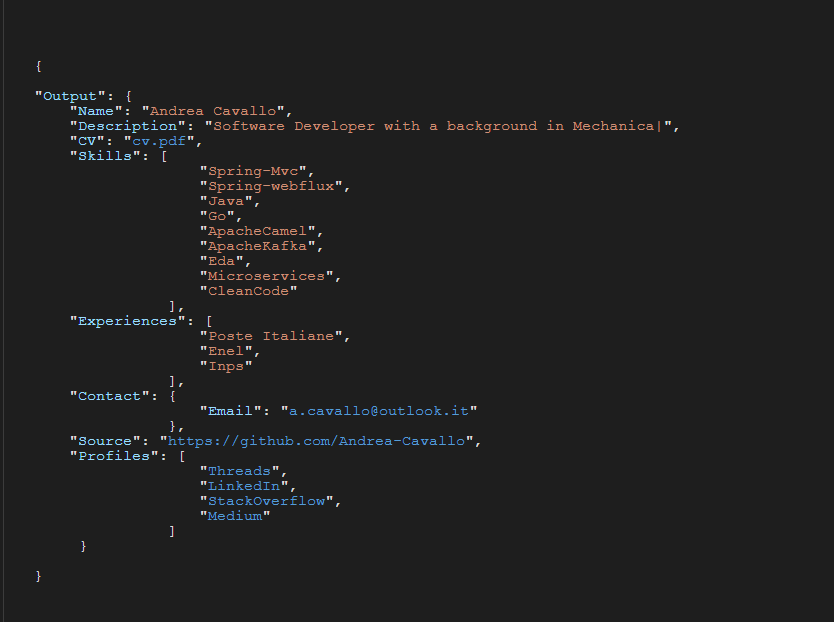
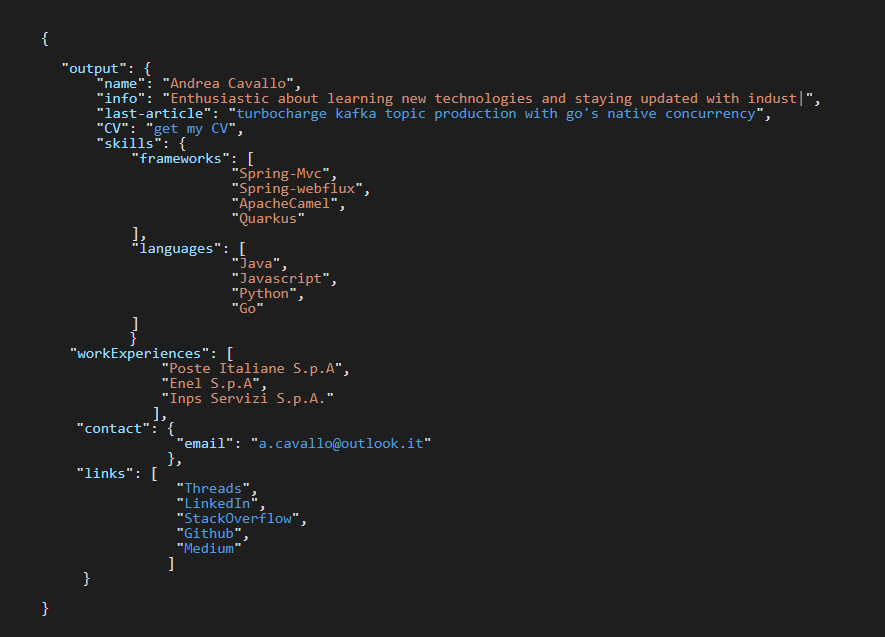
cambiate foto per readme.md

Changed region(s): [[0.0624, 0.0916, 0.9041, 0.4887], [0.0935, 0.4887, 0.5612, 0.8859], [0.0312, 0.9469, 0.0624, 0.9775]]

diff --git a/README.md b/README.md
@@ -48,15 +48,13 @@ Open index.html in your preferred web browser.
 
 ## Demo
 Here are some screenshots of the website:
+
 ![Get User](img/get.png)
 
-then --->
 ![Output](img/output.png)
 
 
-
 ## License
-
 This project is licensed under the MIT License - see the LICENSE file for detail
 
 ## Contact
